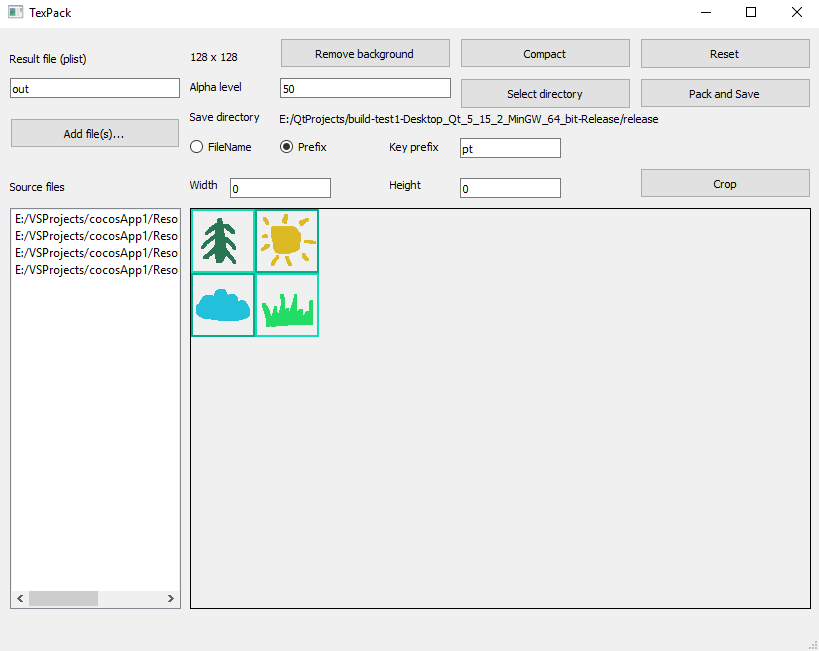
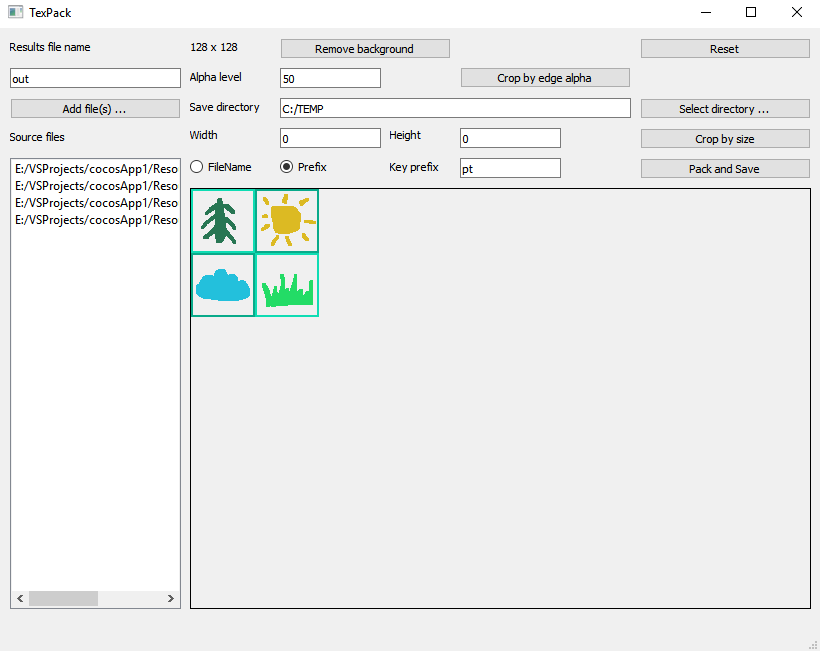
Add files via upload

diff --git a/mainwindow.cpp b/mainwindow.cpp
@@ -154,20 +154,19 @@ void MainWindow::on_btnPackImages_clicked() {
 
     QString fullFileName;
     QString prefixName;
-    QString outFile = ui->edtOutFilename->text();
-    outFile.replace(" ", "");
+    QString outFile = ui->edtOutFilename->text().simplified();
     if(outFile.length() <= 0) {
         outFile = "out";
     }
 
     //export png
-    fullFileName = ui->lblDirectoryPath->text() + "/" + outFile + ".png";
+    fullFileName = ui->edtDirectoryPath->text() + "/" + outFile + ".png";
     QFile pngFile(fullFileName);
     pngFile.open(QIODevice::WriteOnly);
     mainPixmap.save(&pngFile, "PNG");
 
     //export plist
-    fullFileName = ui->lblDirectoryPath->text() + "/"+ outFile + ".plist";
+    fullFileName = ui->edtDirectoryPath->text() + "/"+ outFile + ".plist";
     QFile plistFfile(fullFileName);
     if (plistFfile.open(QIODevice::WriteOnly | QIODevice::Text)) {
         QTextStream out(&plistFfile);
@@ -175,8 +174,7 @@ void MainWindow::on_btnPackImages_clicked() {
         out << "\t<dict>\n\t\t<key>frames</key>\n\t\t<dict>\n";
         for(size_t i=0; i < result.size(); i++) {
             if(ui->edtKeyPrefix->isEnabled()) {
-                prefixName = ui->edtKeyPrefix->text();
-                prefixName.replace(" ", "");
+                prefixName = ui->edtKeyPrefix->text().simplified();
                 if(prefixName.length() <= 0) {
                     prefixName = "pt";
                 }
@@ -304,7 +302,7 @@ std::vector<stPixmapRect> MainWindow::packRects2(std::vector<stPixmapRect> rects
 }
 
 void MainWindow::on_btnSelectDirectory_clicked() {
-    ui->lblDirectoryPath->setText(QFileDialog::getExistingDirectory(this, tr("Open Directory"), "C:\\", QFileDialog::ShowDirsOnly | QFileDialog::DontResolveSymlinks));
+    ui->edtDirectoryPath->setText(QFileDialog::getExistingDirectory(this, tr("Open Directory"), "C:\\", QFileDialog::ShowDirsOnly | QFileDialog::DontResolveSymlinks));
 }
 
 void MainWindow::on_btnReset_clicked() {
@@ -374,7 +372,7 @@ void MainWindow::on_btnCrop_clicked() {
 void MainWindow::on_lstvwSourceFiles_clicked(const QModelIndex &index) {
     ui->lblPreview->clear();
 
-    QPixmap mainPixmap = QPixmap::fromImage(pixmapRects[index.row()].image); //error!
+    QPixmap mainPixmap = QPixmap::fromImage(pixmapRects[index.row()].image);
     QSize size = mainPixmap.size();
 
     ui->lblSize->setText(QString::number(size.width()) + " x "+ QString::number(size.height()));
@@ -398,7 +396,7 @@ void MainWindow::loadSettings() {
     QSettings settings(qApp->applicationDirPath() + "/settings.conf", QSettings::IniFormat);
     settings.beginGroup("main");
     ui->edtOutFilename->setText(settings.value("outFile", "out").toString());
-    ui->lblDirectoryPath->setText(settings.value("saveDirectory", qApp->applicationDirPath()).toString());
+    ui->edtDirectoryPath->setText(settings.value("saveDirectory", qApp->applicationDirPath()).toString());
     ui->edtKeyPrefix->setText(settings.value("keyPrefix", "pt").toString());
     ui->edtKeyPrefix->setEnabled(settings.value("prefixEnable", true).toBool());
     ui->edtAlphaLevel->setText(settings.value("alphaLevel", "50").toString());
@@ -410,9 +408,9 @@ void MainWindow::loadSettings() {
 void MainWindow::saveSettings() {
     QSettings settings(qApp->applicationDirPath() + "/settings.conf", QSettings::IniFormat);
     settings.beginGroup("main");
-    settings.setValue("outFile", ui->edtOutFilename->text());
-    settings.setValue("saveDirectory", ui->lblDirectoryPath->text());
-    settings.setValue("keyPrefix", ui->edtKeyPrefix->text());
+    settings.setValue("outFile", ui->edtOutFilename->text().simplified());
+    settings.setValue("saveDirectory", ui->edtDirectoryPath->text());
+    settings.setValue("keyPrefix", ui->edtKeyPrefix->text().simplified());
     settings.setValue("prefixEnable", ui->edtKeyPrefix->isEnabled());
     settings.setValue("alphaLevel", ui->edtAlphaLevel->text());
     settings.setValue("cropWidth", ui->edtCropWidth->text());
